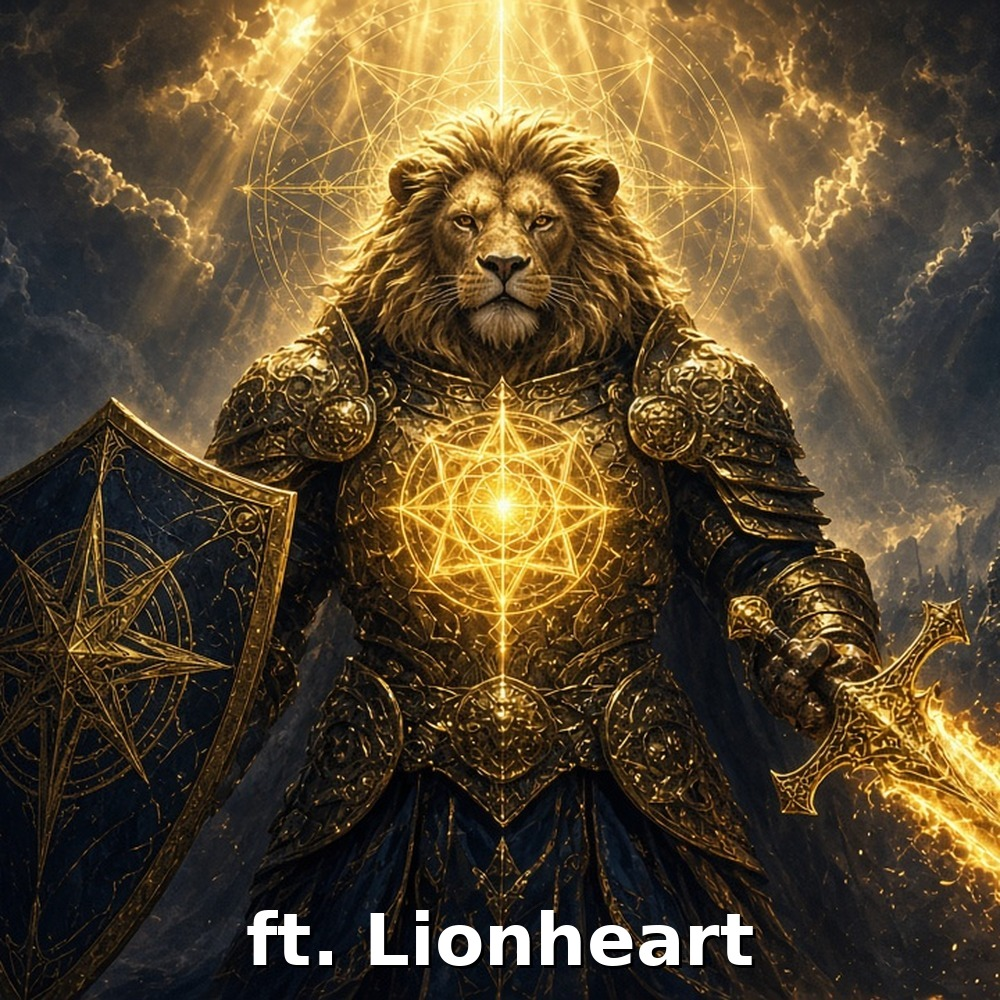
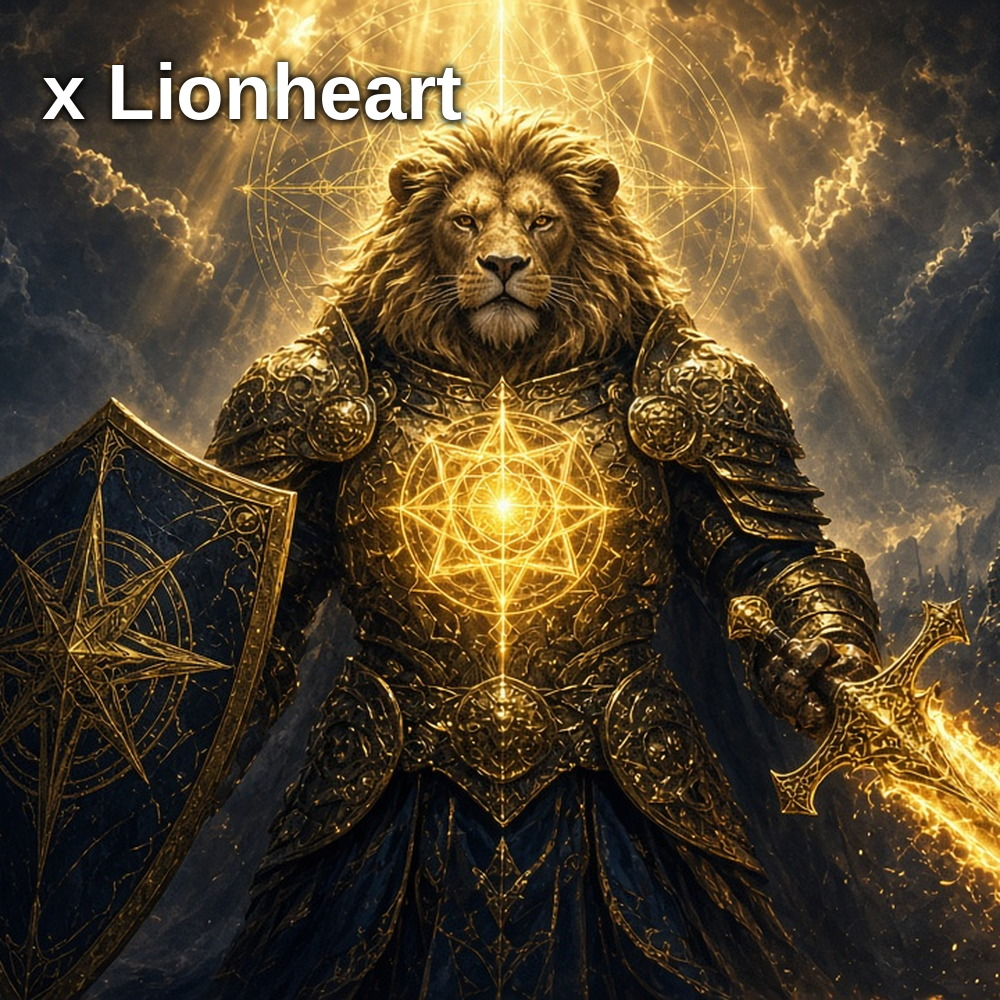
Armour of God x Lionheart: clear credit, SC link (#49)
- Display title Armour of God x Lionheart (slug armour-of-god unchanged, so sitemap URL and links stay; title flows to wall, tablet heading, JSON-LD, og/twitter and search)
- Rebuild cover from the clean 1280x720 original (centre-crop 1000x1000): remove bottom ft. Lionheart, add single white bold x Lionheart at top-left above the lion, clear of tile bottom title/meaning and top icon strip
- SoundCloud: permalink armour-of-god-x-lionheart, sound id 2421739632 (oembed), waveform E4diBNIOTuOf_m.json; failed native stream now falls back to SoundCloud like other tablets
- Sitemap regenerated: still 115 URLs, only lastmod changed

Changed region(s): [[0.031, 0.062, 0.465, 0.124], [0.372, 0.899, 0.775, 0.992], [0.248, 0.899, 0.341, 0.961]]

diff --git a/src/lib/streams.test.ts b/src/lib/streams.test.ts
@@ -248,6 +248,15 @@ describe("a tablet SoundCloud has not published yet (no sound id)", () => {
     const unpublished = SOUNDCLOUD_TRACKS.filter((t) => !canUseSoundCloud(t));
     for (const t of unpublished) assert.equal(hasStream(t.slug), true, t.id);
   });
+  it("Armour of God x Lionheart now has its SoundCloud sound, so a failed stream falls back to SoundCloud", () => {
+    const t = SOUNDCLOUD_TRACKS.find((x) => x.id === "armour-of-god")!;
+    assert.equal(t.title, "Armour of God x Lionheart");
+    assert.equal(t.soundId, "2421739632");
+    assert.equal(t.permalink, "https://soundcloud.com/esoteric_vibrations/armour-of-god-x-lionheart");
+    assert.equal(streamFailureAction(t), "sc");
+    assert.equal(pickBackend({ slug: t.slug, allowNative: true, failed: new Set([t.slug]), soundCloud: canUseSoundCloud(t) }), "sc");
+    assert.equal(pickBackend({ slug: t.slug, allowNative: true, soundCloud: canUseSoundCloud(t) }), "native");
+  });
   it("Don't Fear now has its SoundCloud sound, so a failed stream falls back to SoundCloud", () => {
     const t = SOUNDCLOUD_TRACKS.find((x) => x.id === "dont-fear")!;
     assert.equal(t.soundId, "2414925384");

diff --git a/src/lib/soundcloud-tracks.ts b/src/lib/soundcloud-tracks.ts
@@ -1,11 +1,11 @@
 export const SOUNDCLOUD_TRACKS = [
   {
     id: "armour-of-god",
-    title: "Armour of God",
-    soundId: "",
+    title: "Armour of God x Lionheart",
+    soundId: "2421739632",
     slug: "armour-of-god",
     image: "/images/tracks/armour-of-god.jpg",
-    permalink: "https://soundcloud.com/esoteric_vibrations/armour-of-god",
+    permalink: "https://soundcloud.com/esoteric_vibrations/armour-of-god-x-lionheart",
     recorded: "October 2026",
     downloadKey: "masters/armour-of-god.mp3",
   },

diff --git a/src/lib/waveform-urls.ts b/src/lib/waveform-urls.ts
@@ -4,6 +4,7 @@
  * native player is in use and the SoundCloud iframe is not loaded.
  */
 export const WAVEFORM_URLS: Readonly<Record<string, string>> = {
+  "2421739632": "https://wave.sndcdn.com/E4diBNIOTuOf_m.json",
   "2419813842": "https://wave.sndcdn.com/rGocOeD3B65N_m.json",
   "2417082012": "https://wave.sndcdn.com/w0Q67i4e3c8b_m.json",
   "2417080812": "https://wave.sndcdn.com/7wSlhysFaVBP_m.json",
